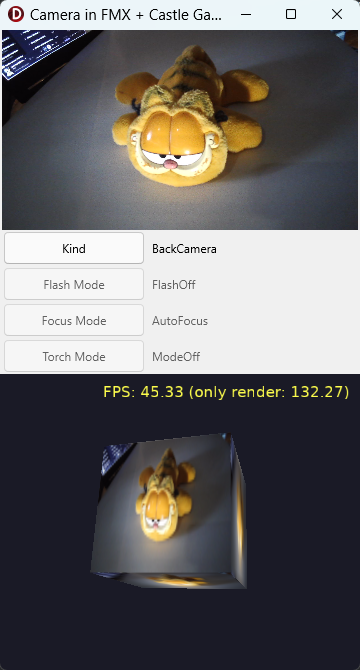
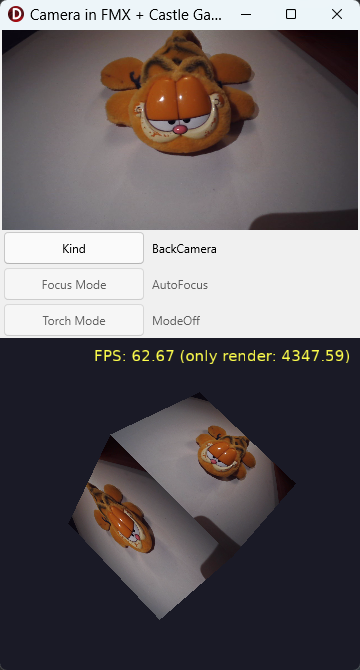
Updating camera image is fast now, update screenshot

diff --git a/examples/delphi/fmx_camera/README.md b/examples/delphi/fmx_camera/README.md
@@ -19,8 +19,6 @@ The camera is accessed using the cross-platform FMX component `TCameraComponent`
 
 This is only useful with Delphi, it relies on FMX and Delphi-specific components.
 
-WARNING: Updating _Castle Game Engine_ texture contents from FMX `TBitmap` may be slow. Unfortunately, there doesn't seem to be an efficient and cross-platform alternative.
-
 Using [Castle Game Engine](https://castle-engine.io/).
 
 ## Screenshots
